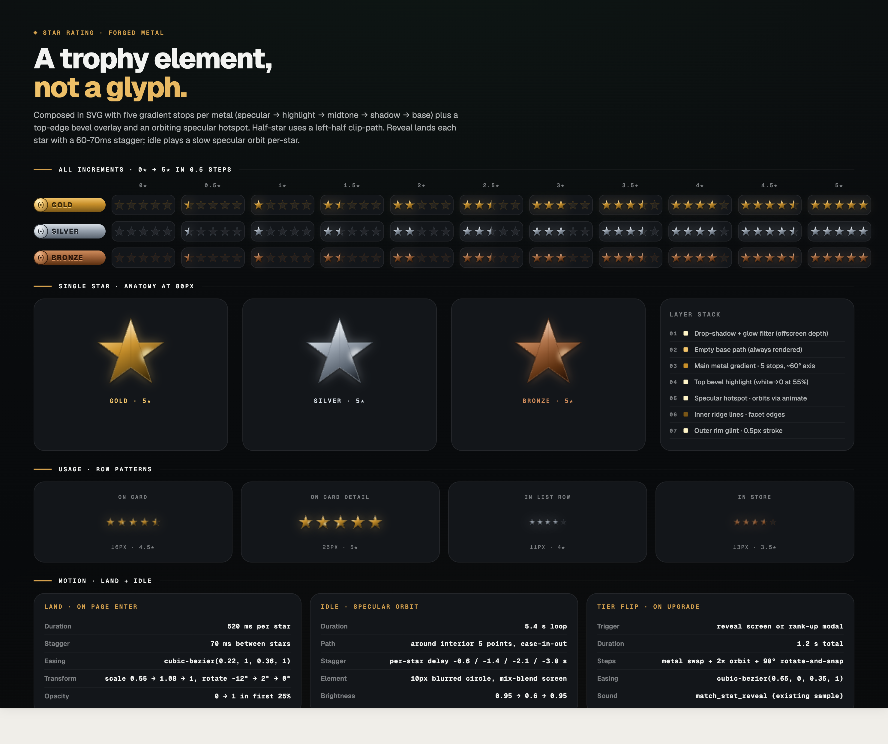
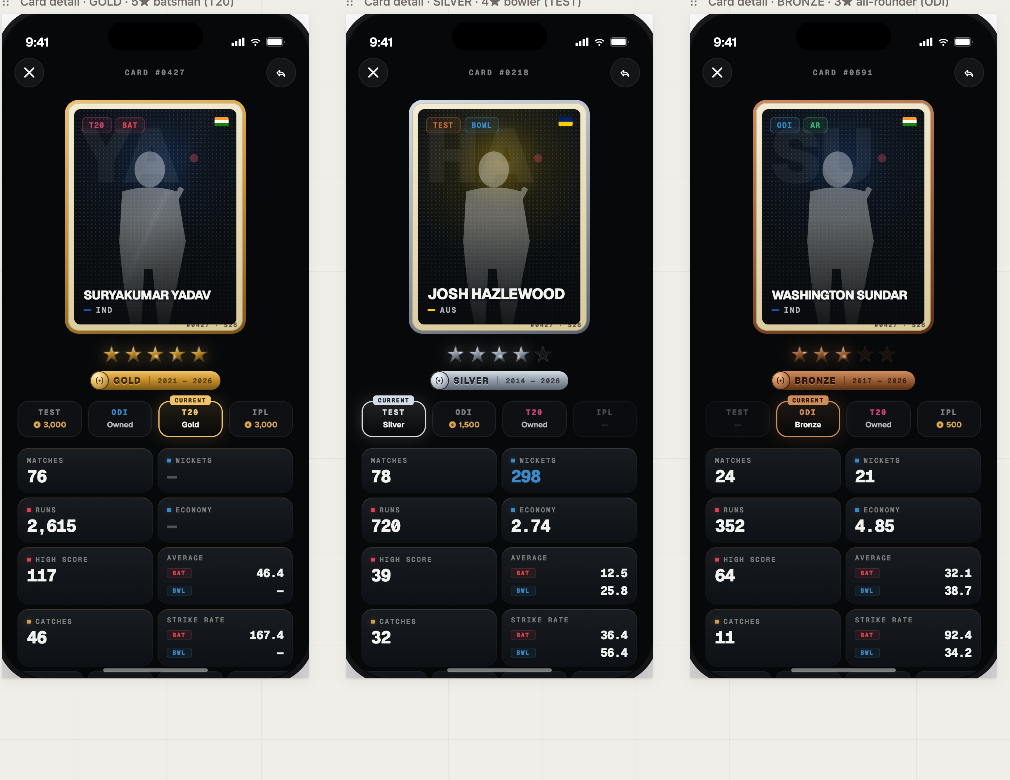
story deck: slide 9 v3 image = card-detail tier mocks (continuity with card anatomy)

diff --git a/docs/story/index.html b/docs/story/index.html
@@ -260,9 +260,9 @@
   </section>
 
   <!-- 9 · CLAUDE DESIGN → FRONT END -->
-  <section class="slide" data-notes="Now the front end. Claude Code built the screens as a working grey skeleton — every flow functional, unstyled. Then Claude Design produced a real design system: the v1 'cricket cards' design language board on the left — type, colour, geometry, components, card anatomy — and by v3, deep-dive element specs like this one: the star rating designed as a forged-metal trophy element with gold, silver and bronze tiers and motion tokens. The badge opens the live spec.">
+  <section class="slide" data-notes="Now the front end. Claude Code built the screens as a working grey skeleton — every flow functional, unstyled. Then Claude Design produced a real design system: the v1 'cricket cards' design language board on the left — type, colour, geometry, components, card anatomy — and by v3, full card-detail mocks — gold, silver and bronze tier treatments of the screen the app ships today. The badge opens the live spec.">
     <div class="col stagger" style="gap:6px"><div class="kicker">Chapter 8 · the design</div><h2>Then the <span class="grad">front end.</span></h2></div>
-    <p class="lead mt-s" style="max-width:1100px">Claude Code built a working grey skeleton first. Then <b>Claude Design</b> wrote the design language — and iterated it to deep-dive element specs, down to the star rating as a forged-metal trophy.</p>
+    <p class="lead mt-s" style="max-width:1100px">Claude Code built a working grey skeleton first. Then <b>Claude Design</b> wrote the design language — and iterated it into the premium card-detail screen, specced tier by tier.</p>
     <div class="fill row mt-s" style="gap:2vw;align-items:center">
       <div class="col center" style="flex:1.25;min-width:0">
         <div class="panel glow" style="padding:8px;border-radius:14px;width:100%"><img src="assets/d-design-system.png" alt="" style="width:100%;border-radius:8px;display:block"></div>
@@ -270,7 +270,7 @@
       </div>
       <div class="col center" style="flex:1;min-width:0">
         <div class="panel" style="padding:8px;border-radius:14px;width:100%"><img src="assets/d-design-carddetail.png" alt="" style="width:100%;border-radius:8px;display:block"></div>
-        <div class="cap">v3 · Card detail, deep-dived<small>forged-metal stars — gold · silver · bronze + motion tokens</small></div>
+        <div class="cap">v3 · Card detail, deep-dived<small>gold · silver · bronze tiers — the screen the app ships today</small></div>
       </div>
     </div>
     <div class="row wrap center mt-s" style="gap:12px;justify-content:center;align-items:center">
